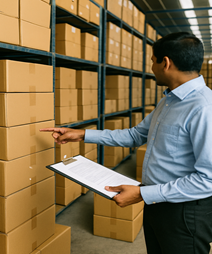
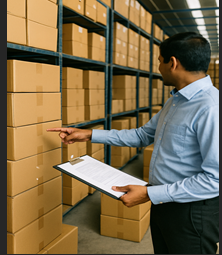
Update Pre-Shipment Inspection image to newly provided photo

diff --git a/index.html b/index.html
@@ -1057,7 +1057,7 @@
         {
           id: 's13',
           name: 'Pre-Shipment Inspection',
-          image: 'assets/images/service-01.jpg',
+          image: 'assets/images/service-pre-shipment.png',
           stageLabel: 'Pre-Shipment & Final',
           desc: 'Statistical AQL 2.5 audit on 100% finished, 80%+ packed lots.',
           details: 'ISO 2859-1 Level II sampling evaluating critical, major, and minor defects, measurement tables, packing conformity, and release sign-off.'
